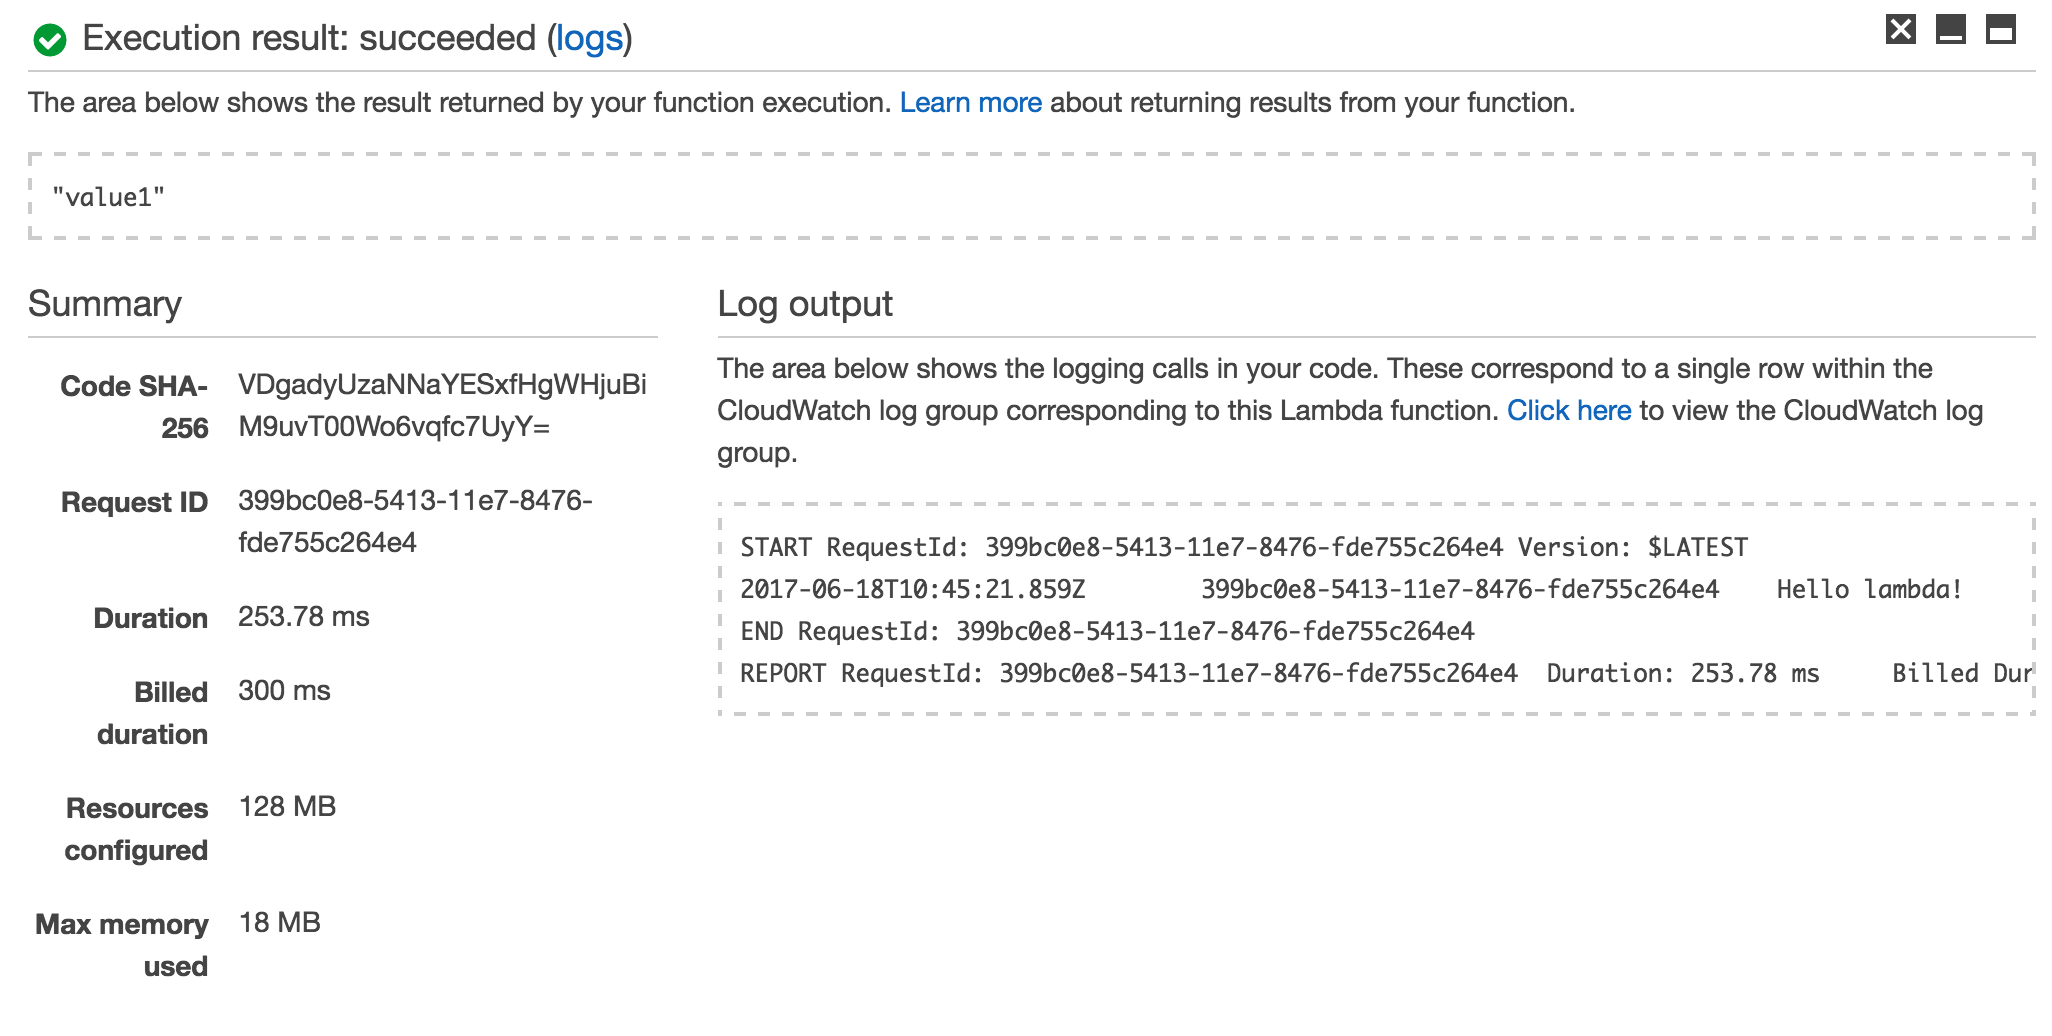
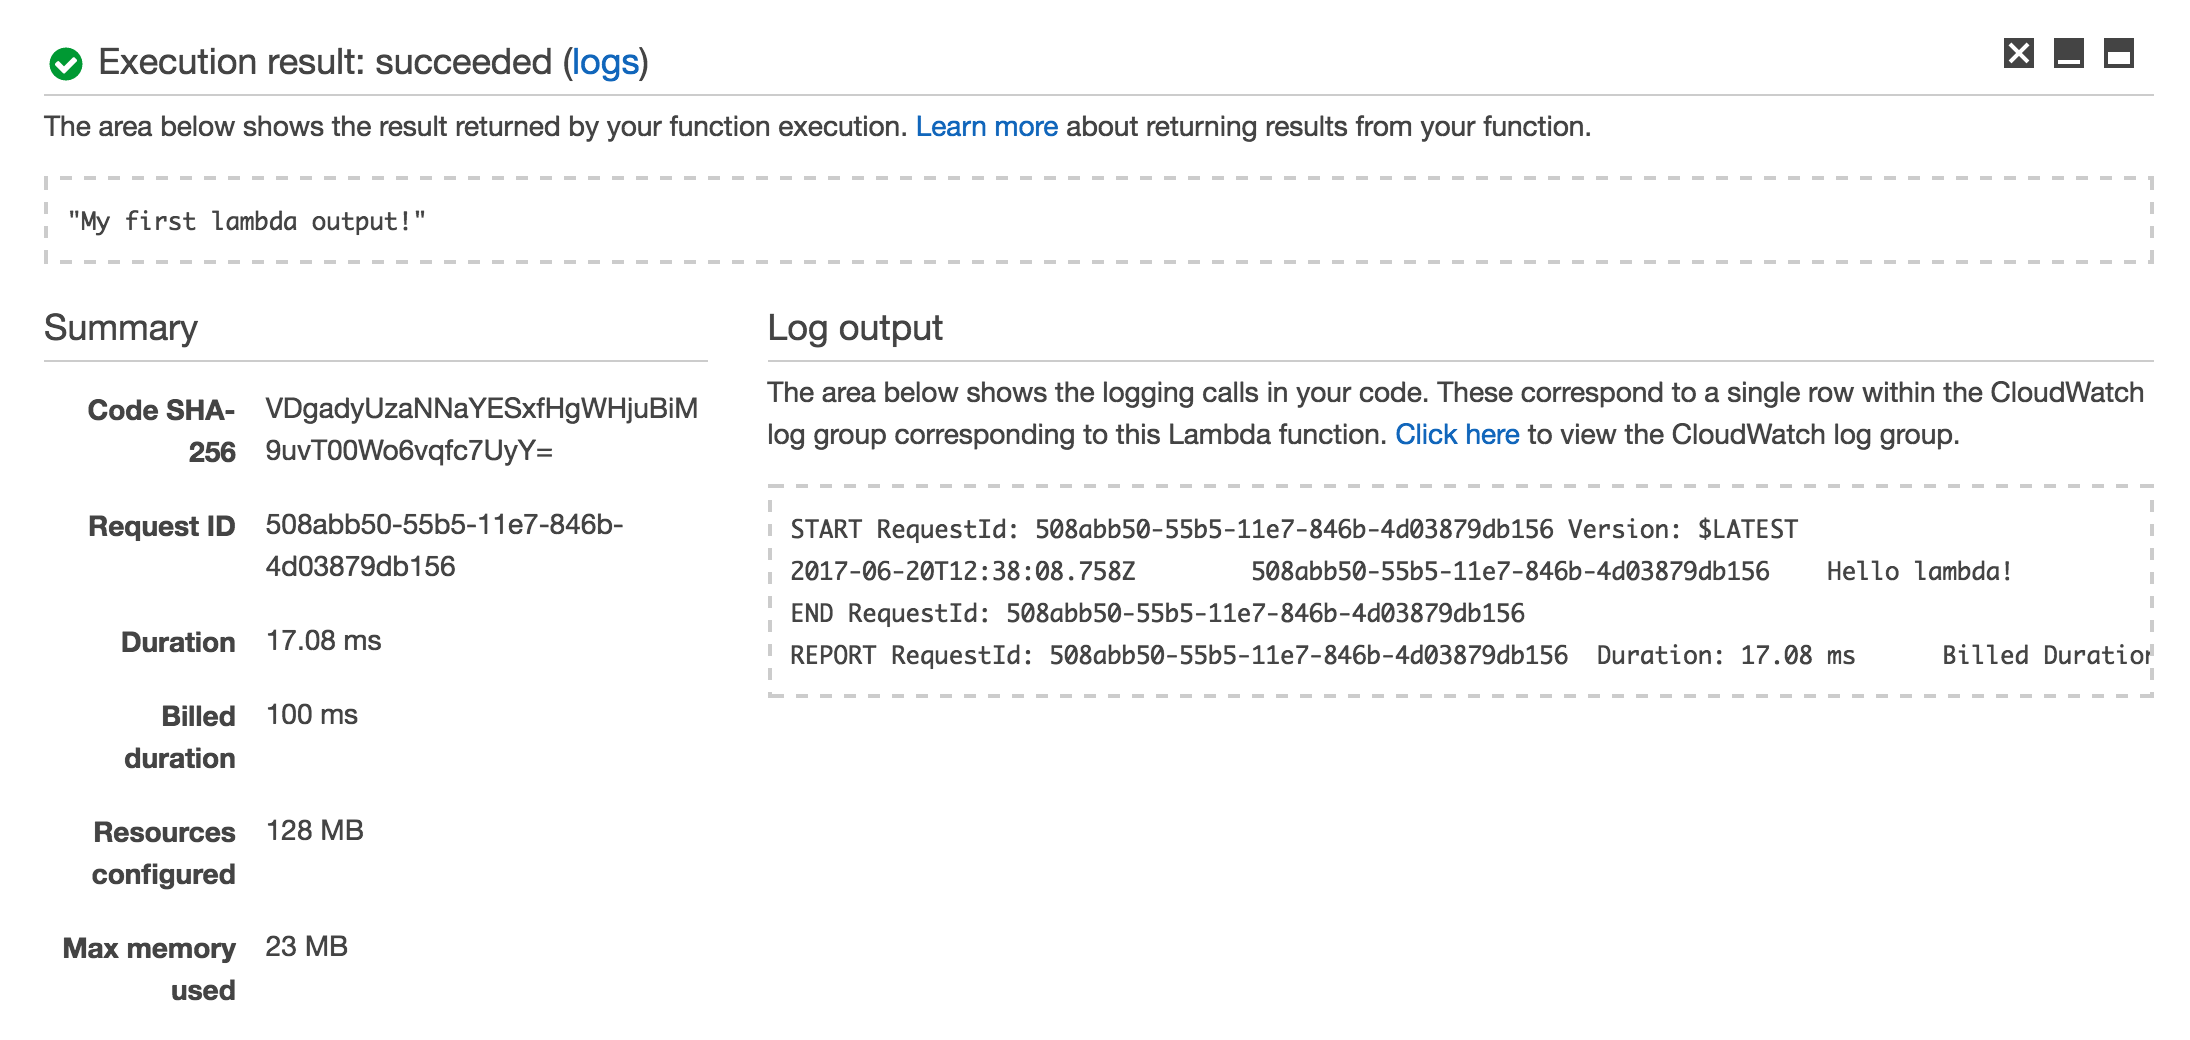
Add titles for new blog entries, Finish blog entry "Getting Started With AWS Lambda..." Changed deployment scripts to be more useable in workflow. Fix lambda-function-complete blog photo

diff --git a/ui/src/pages/blog/getting-started-with-aws-lambda-and-serverless/index.md b/ui/src/pages/blog/getting-started-with-aws-lambda-and-serverless/index.md
@@ -1,41 +1,35 @@
 ---
-title: How to get started with AWS Lambda and Serverless
+title: How to Get Started with AWS Lambda and Serverless
 date: 06/17/2017
 categories: Node.js, AWS,
 summary: Imagine a world where you can have 1 million free API calls, automatic scaling and zero maintenance. It is all possible with Amazon Web Services (AWS) Lambda functions. However getting started can be a bit confusing.
 ---
 
-Imagine a world where you can host an API that receives: 1 million free API calls per month, automatic scaling and zero maintenance. It is all possible with Amazon Web Services (AWS) Lambda functions. However getting started can be a bit confusing.
+Imagine a world where you can host an API that is allowed 1 million free API calls per month, automatic scaling and zero maintenance. It is all possible with Amazon Web Services' (AWS) Lambda functions. However getting started can be a bit confusing.
 
-There are a serious of steps you need to follow before deploying and executing your first lambda function. But it's not as hard as you think.
+There are many steps you need to follow and understand before deploying and executing your first lambda function. But it's not as hard as you think. This blog post is the first in a series that will show you how you can easily get started with AWS' "functions as a service" platform.
 
-In this blog I will show you how you can easily get started with AWS' "functions as a service" platform. By the time you finish following the instructions in this tutorial, you will have a shiny new lambda function ready to be used in your next project.
-
-**More specifically you will learn...**
-
+**By the time you finish this series you will learn:**
+ 
 1) How to create a lambda function.
-2) How to deploy a lambda function from the command line using Serverless.
-3) How to deploy a lambda function with public and private environment variables.
+2) [How to deploy a lambda function from the command-line using Serverless](http://localhost:8000/blog/deploy-lamda-function-using-serverless/)
+3) [How to deploy a lambda function with public and private environment variables](/blog/deploy-lambda-function-with-public-and-private-enviromental-variables-using-serverless/)
 
-**To do this tutorial you will need to...**
+**To do this part of the tutorial you will need to...**
 1) Have knowledge of how to read javascript and JSON
-2) [Have an aws account](https://www.amazon.com/ap/signin?openid.assoc_handle=aws&openid.return_to=https%3A%2F%2Fsignin.aws.amazon.com%2Foauth%3Fresponse_type%3Dcode%26client_id%3Darn%253Aaws%253Aiam%253A%253A015428540659%253Auser%252Fhomepage%26redirect_uri%3Dhttps%253A%252F%252Fconsole.aws.amazon.com%252Fconsole%252Fhome%253Fregion%253Dus-east-1%2526state%253DhashArgs%252523%2526isauthcode%253Dtrue%26noAuthCookie%3Dtrue&openid.mode=checkid_setup&openid.ns=http%3A%2F%2Fspecs.openid.net%2Fauth%2F2.0&openid.identity=http%3A%2F%2Fspecs.openid.net%2Fauth%2F2.0%2Fidentifier_select&openid.claimed_id=http%3A%2F%2Fspecs.openid.net%2Fauth%2F2.0%2Fidentifier_select&action=&disableCorpSignUp=&clientContext=&marketPlaceId=&poolName=&authCookies=&pageId=aws.ssop&siteState=registered%2Cen_US&accountStatusPolicy=P1&sso=&openid.pape.preferred_auth_policies=MultifactorPhysical&openid.pape.max_auth_age=120&openid.ns.pape=http%3A%2F%2Fspecs.openid.net%2Fextensions%2Fpape%2F1.0&server=%2Fap%2Fsignin%3Fie%3DUTF8&accountPoolAlias=&forceMobileApp=0&language=en_US&forceMobileLayout=0)
-3) Have your own domain name (Optional)
-4) [Install Node.js](https://nodejs.org)
+2) [Have an AWS account](https://www.amazon.com/ap/signin?openid.assoc_handle=aws&openid.return_to=https%3A%2F%2Fsignin.aws.amazon.com%2Foauth%3Fresponse_type%3Dcode%26client_id%3Darn%253Aaws%253Aiam%253A%253A015428540659%253Auser%252Fhomepage%26redirect_uri%3Dhttps%253A%252F%252Fconsole.aws.amazon.com%252Fconsole%252Fhome%253Fregion%253Dus-east-1%2526state%253DhashArgs%252523%2526isauthcode%253Dtrue%26noAuthCookie%3Dtrue&openid.mode=checkid_setup&openid.ns=http%3A%2F%2Fspecs.openid.net%2Fauth%2F2.0&openid.identity=http%3A%2F%2Fspecs.openid.net%2Fauth%2F2.0%2Fidentifier_select&openid.claimed_id=http%3A%2F%2Fspecs.openid.net%2Fauth%2F2.0%2Fidentifier_select&action=&disableCorpSignUp=&clientContext=&marketPlaceId=&poolName=&authCookies=&pageId=aws.ssop&siteState=registered%2Cen_US&accountStatusPolicy=P1&sso=&openid.pape.preferred_auth_policies=MultifactorPhysical&openid.pape.max_auth_age=120&openid.ns.pape=http%3A%2F%2Fspecs.openid.net%2Fextensions%2Fpape%2F1.0&server=%2Fap%2Fsignin%3Fie%3DUTF8&accountPoolAlias=&forceMobileApp=0&language=en_US&forceMobileLayout=0)
 
-### How to Create a Lambda Function
+### Getting Started
 
-Before I show you how to create a lambda function in your own environment locally I want to show you how to do it in the AWS console. This will give you better context for AWS.
-
-So first you need to sign into the AWS console. Then type on Lambda in the search field under where it says AWS services, and hit enter.
+First, you need to sign into the AWS console. Then type "Lambda" in the search field under where it says AWS services, and hit enter.
 
 Then press "Create a Lambda Function".
 
-After that you will be presented with the blueprints page. Here there are several pre-made functions that you could use as examples or starter templates. As of June 2017 there is only Python and Node.js runtimes in the blueprint page, but you are able to also use Java (this includes all JVM languages such as clojure and scala) and .NET (C#) if you deploy from the command line. Since I'm a Node guy I use Node.
+After that, you will be presented with the blueprints page. Here there are several pre-made functions that you could use as examples or starter templates. As of June 2017 there is only Python and Node.js runtimes on the blueprint page, but you are able to also use Java (this includes all JVM languages such as Clojure and Scala) and .NET (C#) if you deploy from the command line. Since I'm a Node guy, I use Node.
 
-Now go to where it says "select runtime", and press on `Node.js 6.10`. Then press on "hello-world"
+Now go to where it says "select runtime", and select `Node.js 6.10`. Then select the "hello-world" blueprint. You might need to type "hello-world" into the filter field, adjacent of the runtime field, for the "hello-world" blueprint to appear on the screen.
 
-The next page is where you configure triggers for the function. The options here are many. For example yuu can cause something to be triggered through an HTTP request, when something gets uploaded to S3 (Amazon's cloud storage service) or if something gets pushed to CodeCommit (Amazon's version control repository service). Ideally these are better added with automation through Serverless or CloudFormation (Amazon's infrastructure automated deployment service), so just press next.
+The next page is where you configure triggers for the function. There are many choices. For example you can cause the function to be triggered through an HTTP request, when a file gets uploaded to S3 (Amazon's cloud storage service) or if something gets pushed to CodeCommit (Amazon's version control repository service). Ideally these are better added with automation through Serverless or CloudFormation (Amazon's infrastructure automated deployment service). I will explain how to do this in the next blog entry in this series. Now, press next.
 
 Now type "hello-lambda" for the function name, and leave the description as is.
 
@@ -55,7 +49,9 @@ exports.handler = (event, context, callback) => {
 
 ```
 
-Scroll down to where it says "Role". A role is where you give rights to your function to access other AWS resources such as giving permission to make logs with CloudWatch or to interact with an S3 bucket. A common practice for naming roles, is to name a role based on what the function with this role is doing. If a function is a contact form response then you could call it contact-form-responder. A role can have several "Identity Access Management (IAM) policies" Which are the statements that allow the function to use AWS resources. These are written in JSON. 
+### Roles
+
+Scroll down to where it says "Role". A role is where you give your function rights to access other AWS resources such as: giving permission to make logs with CloudWatch or to interact with an S3 bucket. A common practice for naming roles, is to name a role based on what the function with this role is doing. If a function is a contact form response then you could call it "contact-form-responder". A role can have several "Identity Access Management (IAM) policies" Which are the statements that allow the function to use AWS resources. These are written in JSON. 
 
 ```
 {
@@ -67,13 +63,13 @@ Scroll down to where it says "Role". A role is where you give rights to your fun
 
 **Each policy statement has the following**
 
-- **Effect:** either "Allow" or "Deny" which gives access to a resource. Effect is deny by default so you would normally only write "Allow". This seems silly to me, I mean why not just omit it all together, but it's what it says in the AWS Docs...
+- **Effect:** either "Allow" or "Deny" the resource specified in the policy. Effect is "Deny" by default so you would normally only write "Allow". 
 
-- **Action:** is what actions will be allowed by the function. In the above example you are giving the function the ability to create new log group. This can then be used to view logs from this function.
+- **Action:** is what actions the policy allows. In the above example you are giving the ability to create a new log group. This can then be used to view logs from the AWS resource using this policy.
 
-- **Resources:** This is which resources you have given the policy access to. In the example above we have given access to to CloudWatch logs. The syntax means: `arn:partition:service:region:account-id:log-group-name`. 
+- **Resources:** This is which resources you have given the policy access to. In the example above we have given access to the CloudWatch logs. The syntax means: `arn:partition:service:region:account-id:log-group-name`. 
 
-Here are a few great resources for creating roles...
+Here are some great resources for creating roles...
 
 - [AWS docs for IAM Policies](http://docs.aws.amazon.com/IAM/latest/UserGuide/access_policies.html)
 - [AWS docs for Amazon Resource Names](http://docs.aws.amazon.com/general/latest/gr/aws-arns-and-namespaces.html#arn-syntax-cloudwatch-logs)
@@ -81,20 +77,26 @@ Here are a few great resources for creating roles...
 
 Now time to add a role to our function. Name the role, "lambda-demo". Don't select any policy templates. We will need logs but, by default logs will already be enabled when you create a role.
 
-Now scroll down to where it says Advanced and press on it. Here you define the configuration for your function. Most importantly memory and timeout. 
-The main thing to consider here is that beyond your free 1 million API calls per month and and 400,000 GB-seconds of compute time per month, how much you are charged depends on how much memory you add to your function and how long it runs. This can even out though since sometimes since when you increase memory you can decrease the time functions run. Check out the [AWS Lambda pricing page](https://aws.amazon.com/lambda/pricing/) for more information.
+Now scroll down to where it says "Advanced settings" and press on it. Here you define the configuration for your function. Most importantly "memory" and "timeout". The main thing to consider here is that, beyond your free 1 million API calls per month and 400,000 GB-seconds of compute time per month, how much you are billed depends on how much memory you add to your function and how long it runs. This can be a tricky balance though since sometimes when you increase memory you can decrease the time functions run. Check out the [AWS Lambda pricing page](https://aws.amazon.com/lambda/pricing/) for more information.
 
-Timeout is how long the function can go without calling the callback in the function. Callbacks are required to be called to complete all lambda functions.
+Timeout is how long the function can go without finishing execution. If the Timeout is set at three seconds, and the function takes 4 seconds to execute, it will error out.
 
 Now press "Next" and then "Create function" 
 
-Time to give your new function a test drive...
+### Testing Your New Function
 
-Press "Test" once your reach the next screen. A modal should pop up. In the field where it says `"key1": "value1"` replace this with `"key1": "my first lambda output!"` Then scroll down and press "Save and test".
+It usually takes under a minute for your function to be provisioned. When the next screen appears, press "Test". A modal should pop up. In the field where it says `"key1": "value1"` replace this with `"key1": "My first lambda output!"` Then scroll down and press "Save and test".
 
 After it runs you should see the following in the bottom of the screen...
 
+![lambda function complete](/blog/getting-started-with-aws-lambda-and-serverless/lambda-function-complete.png)
 
-### How to Deploy a Lambda Function from the Command Line Using Serverless.
+You should see that the output is "My first lambda output!". This displays in the top of the "Execution result: succeeded" screen.
 
-### How to Deploy a Lambda Function with Public and Private Variables
+Then under the "Log output" section of this screen you should see where it says "Hello lambda!". 
+
+This is the same log message that will display in Cloud Watch. Press where it says "logs" in parenthesis to see this logstream and the ones before it.
+
+And that's all there is to it! In [the next blog entry ](/blog/deploy-lamda-function-using-serverless/)in this series, I will show you a simple example of how you can write a lambda function in your own environment and deploy it with the command line.
+ 
+ If you have any more questions, [feel free to contact me](/contact/).

diff --git a/ui/src/pages/blog/deploy-lamda-function-using-serverless/index.md b/ui/src/pages/blog/deploy-lamda-function-using-serverless/index.md
@@ -1,5 +1,5 @@
 ---
-title: Fake Blog 5
+title: How to Deploy a Lambda Function from the Command-Line Using Serverless
 date: "3/20/2014"
 categories: Node.js, App Development, Another, Another, AND ANOTHER
 summary: Lorem ipsum dolor sit amet, consectetur adipiscing elit. Donec congue elit vitae lacus sodales, ut tempus ligula laoreet. Nullam imperdiet ex vitae orci dapibus suscipit. Mauris sed condimentum felis. Donec nec cursus arcu. Ut sagittis a libero id molestie. In rutrum, neque sit amet sollicitudin egestas, dui tellus bibendum diam, eu euismod diam sapien cursus arcu.

diff --git a/ui/src/pages/blog/deploy-lambda-function-with-public-and-private-enviromental-variables-using-serverless/index.md b/ui/src/pages/blog/deploy-lambda-function-with-public-and-private-enviromental-variables-using-serverless/index.md
@@ -1,5 +1,5 @@
 ---
-title: Fake Blog 2
+title: How to Deploy a Lambda Function with Public and Private Variables
 date: "04/20/2016"
 categories: Node.js, App Development, Another, Another, AND ANOTHER
 summary: Lorem ipsum dolor sit amet, consectetur adipiscing elit. Donec congue elit vitae lacus sodales, ut tempus ligula laoreet. Nullam imperdiet ex vitae orci dapibus suscipit. Mauris sed condimentum felis. Donec nec cursus arcu. Ut sagittis a libero id molestie. In rutrum, neque sit amet sollicitudin egestas, dui tellus bibendum diam, eu euismod diam sapien cursus arcu.

diff --git a/ui/src/pages/blog/git-rebase-your-new-best-friend/index.md b/ui/src/pages/blog/git-rebase-your-new-best-friend/index.md
@@ -1,5 +1,5 @@
 ---
-title: Fake Blog 3
+title: Git Rebase, Your New Best Friend
 date: "01/05/2016"
 categories: Node.js, App Development, Another, Another, AND ANOTHER
 summary: Lorem ipsum dolor sit amet, consectetur adipiscing elit. Donec congue elit vitae lacus sodales, ut tempus ligula laoreet. Nullam imperdiet ex vitae orci dapibus suscipit. Mauris sed condimentum felis. Donec nec cursus arcu. Ut sagittis a libero id molestie. In rutrum, neque sit amet sollicitudin egestas, dui tellus bibendum diam, eu euismod diam sapien cursus arcu.
